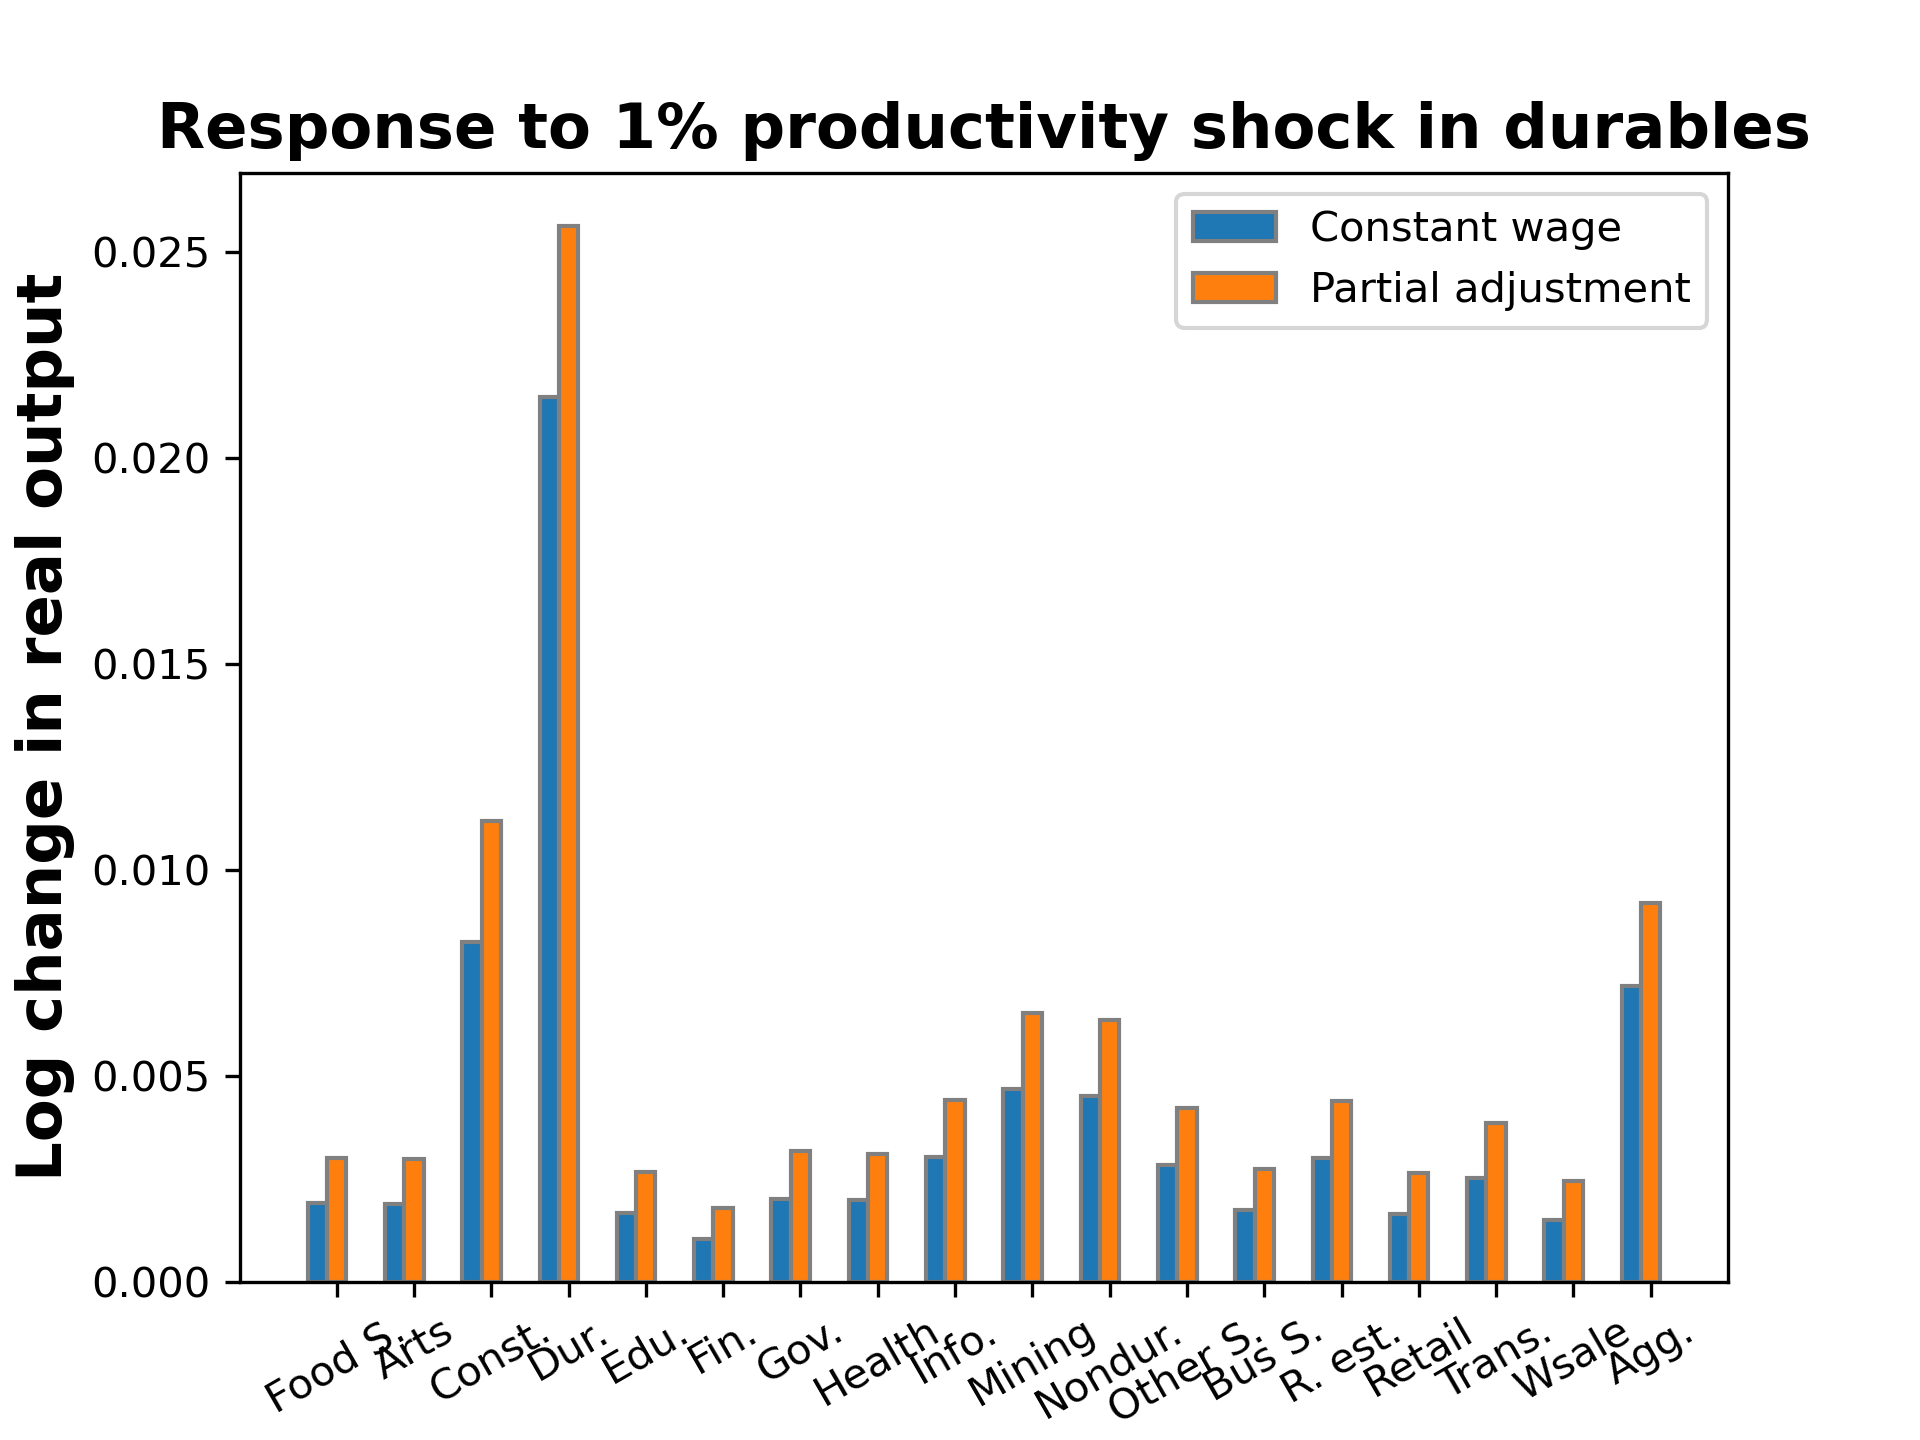
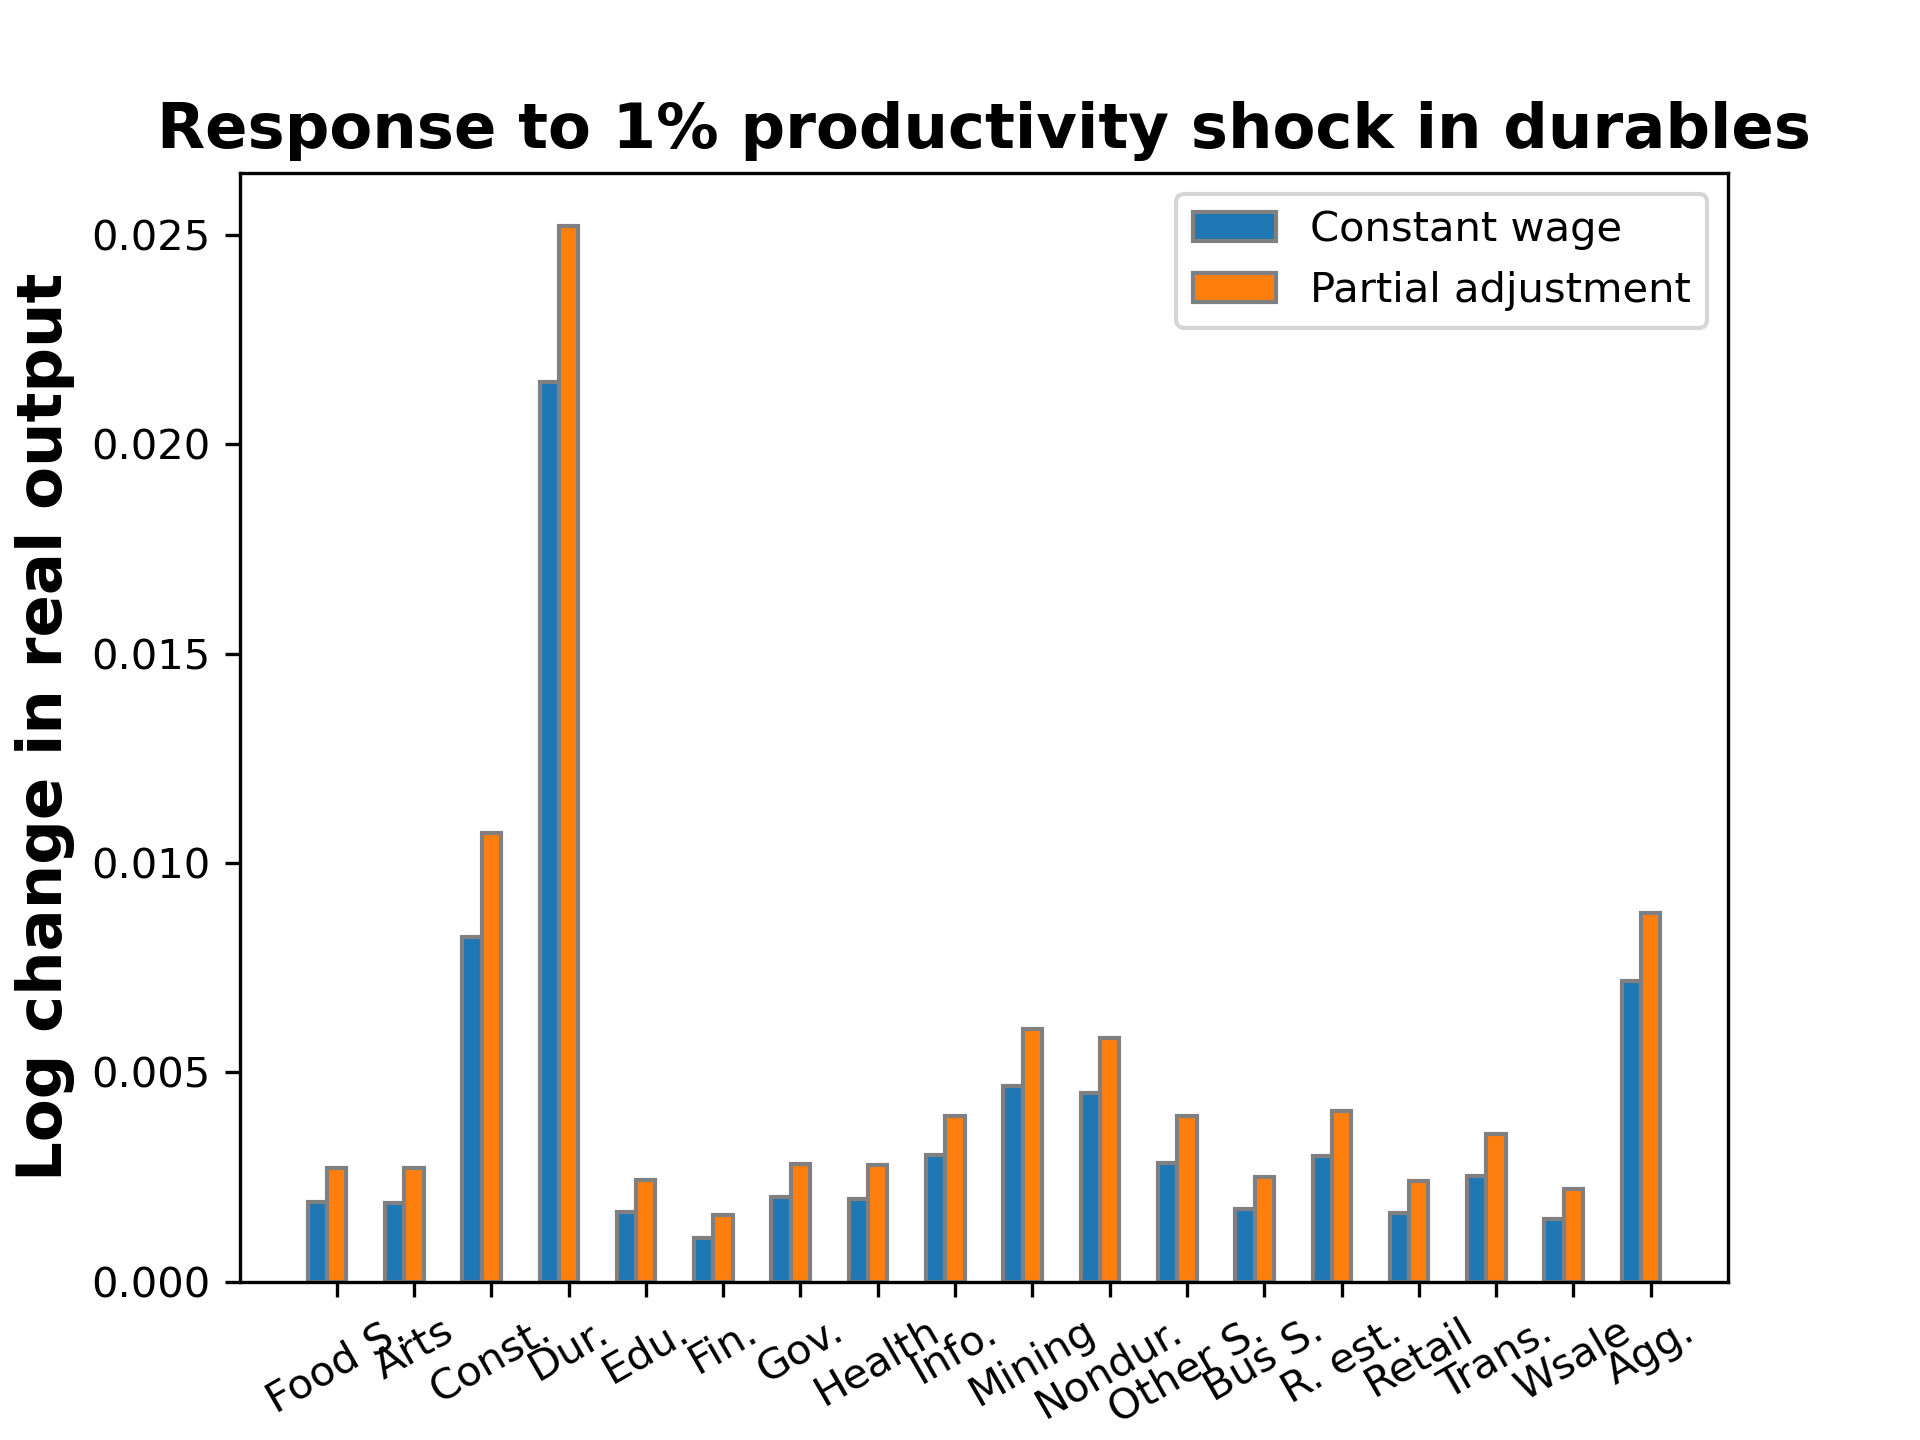
stage

diff --git a/new_code/main.py b/new_code/main.py
@@ -196,7 +196,7 @@ if __name__ == "__main__":
     aggname = 'dlogY'
     title   = 'Response to 1% labor force shock in durables' 
     xlab    = ''
-    ylab    = 'Log change in real output'
+    ylab    = ''
     labels  = ['Constant wage', 'Partial adjustment']
     save_path = 'output/H_shock_fixed_sectoral_output_durables.png'
     bar_plot(networks, sector_names, varname, aggname, title, xlab, ylab, labels, save_path, rotation=30, fontsize=15, barWidth = 0.25, dpi=300)
